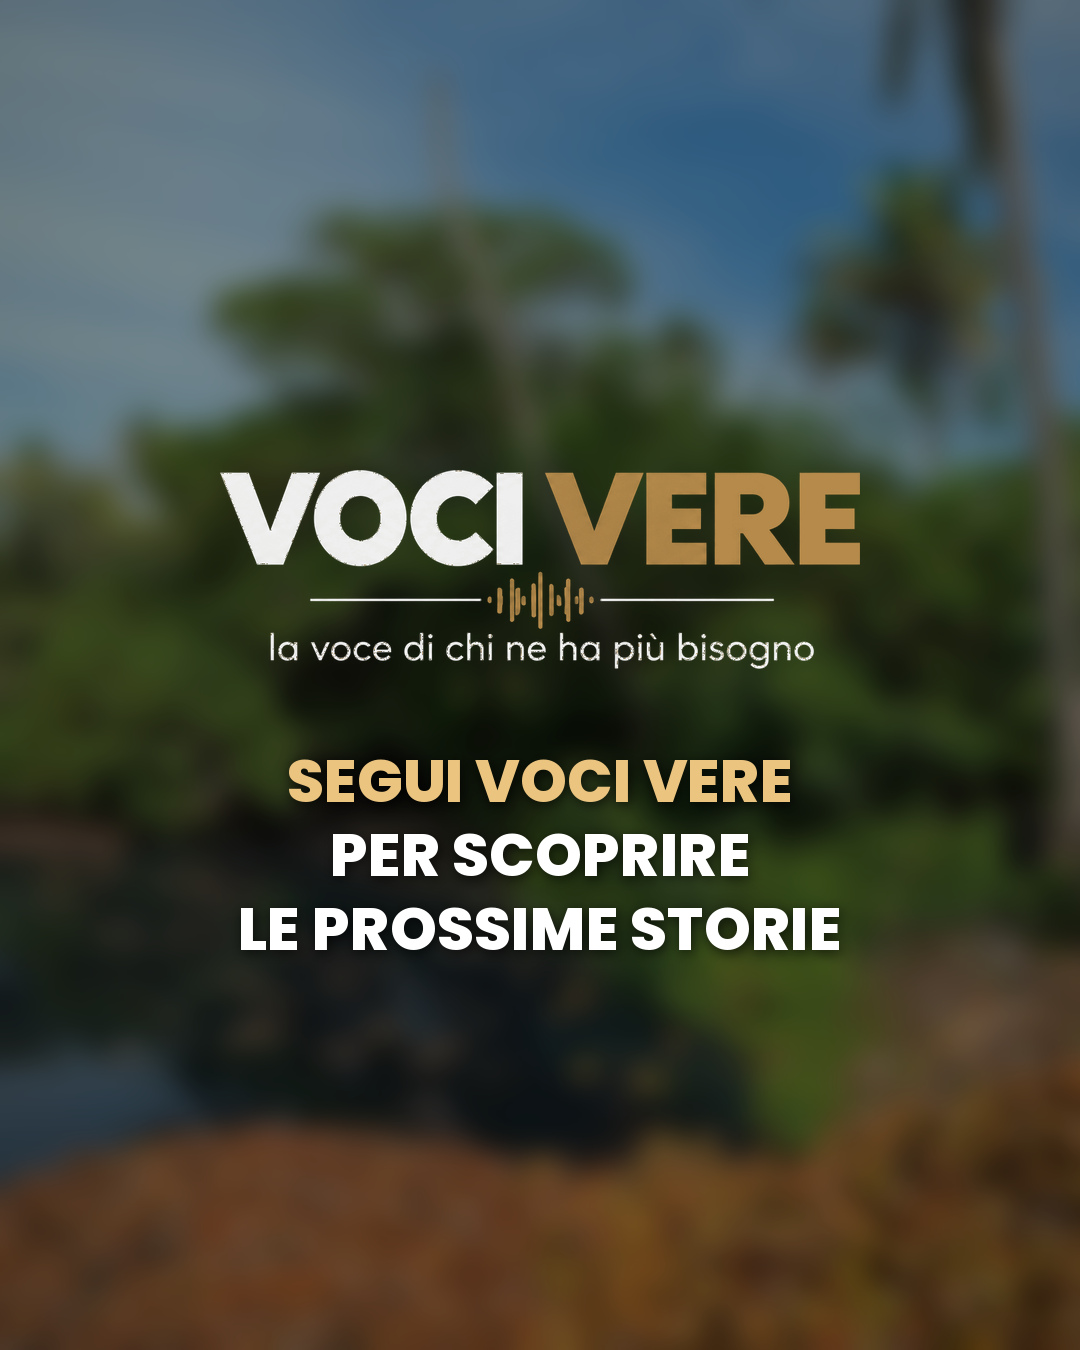
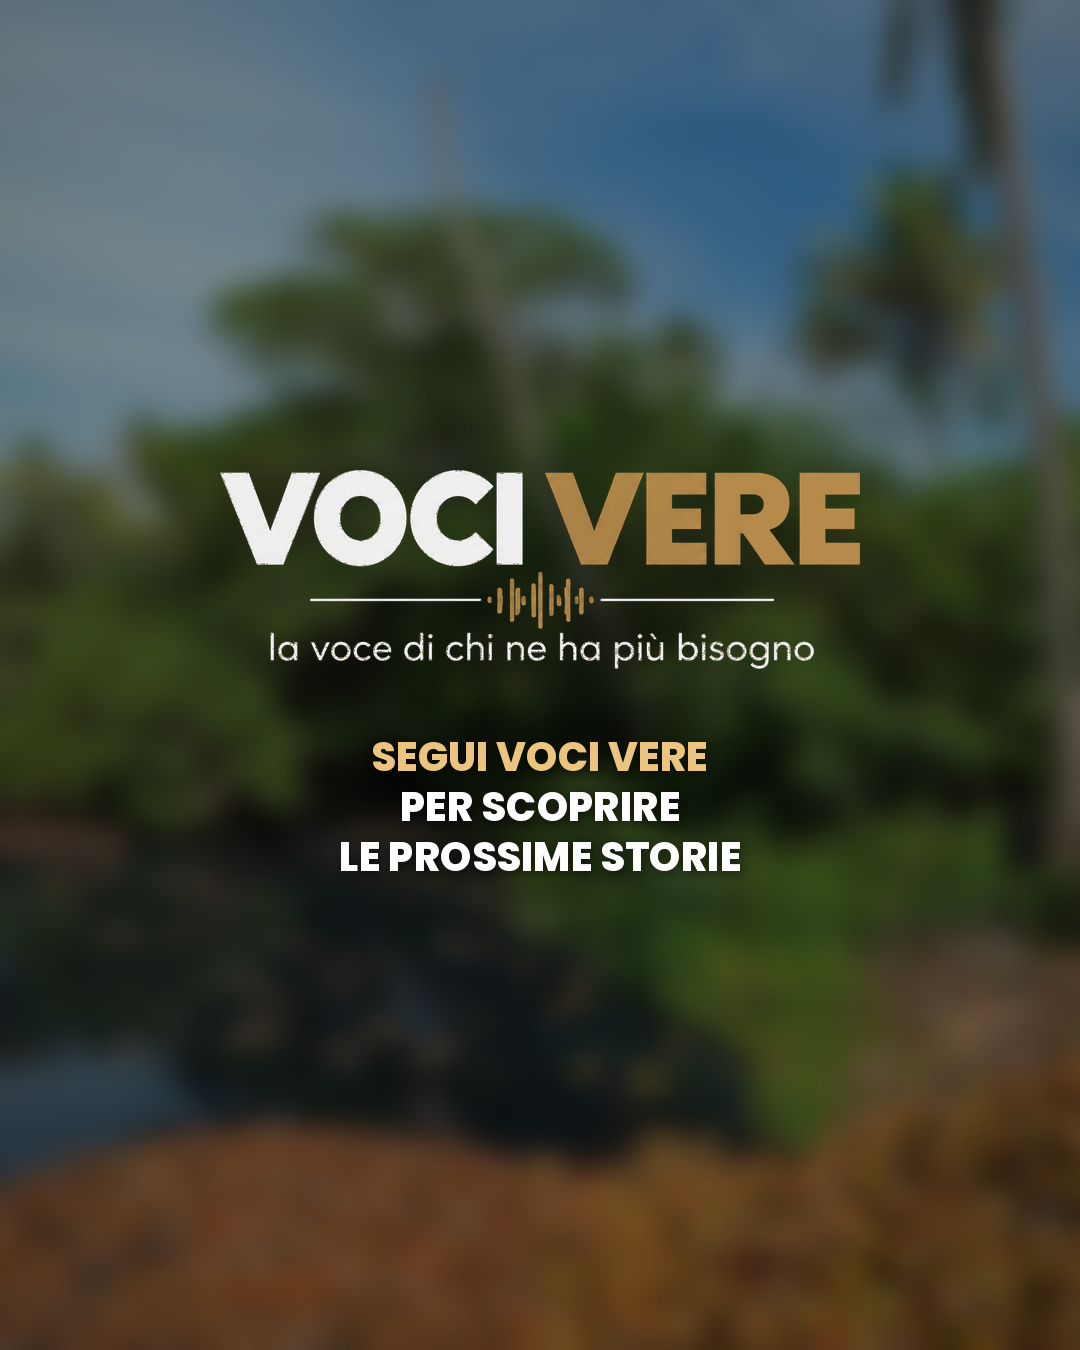
Copy: ultima slide dei caroselli I volti (arthunkal, te, coir) con scritta piccola; hashtag #VociVere al posto di #vitalocale (Manuel 10/11)
Claude-Session: https://claude.ai/code/session_01HtfbgysqTrKE7hBx3kQeSA

Changed region(s): [[0.2139, 0.5289, 0.7944, 0.7156]]

diff --git a/copioni/caroselli/testi_caroselli.md b/copioni/caroselli/testi_caroselli.md
@@ -16,7 +16,7 @@ Il mercato del pesce di Marari, in Kerala, non ha tetto né banchi: le barche ar
 all'asta sulla sabbia. Prima, la sveglia alle 3.
 Tu ti alzeresti alle 3?
 Il video completo è sul canale, link in bio.
-#india #kerala #viaggio #vitalocale #mercato
+#india #kerala #viaggio #VociVere #mercato
 Post YouTube (scheda Community, stesse 8 immagini, senza musica):
 Pesava come una persona 🇮🇳 Il mercato del pesce di Marari, in Kerala: niente tetto, niente banchi, aste sulla sabbia. Tu ti alzeresti alle 3 per esserci? Il video completo: https://youtu.be/LW4zO_0oSgQ
 Musica IG (Insights, 7/11): strumentale della libreria di Instagram, calma (chitarra o percussioni leggere), senza voce, non di
@@ -31,7 +31,7 @@ alla basilica di Arthunkal, recitando un rosario che non si interrompe mai. Noi 
 Cammineresti 13 km di notte, pregando?
 Chi aspetta i pellegrini lungo la strada, e perché qui c'è una statua arrivata da Milano: è nel video sul canale.
 Video completo sul canale YouTube Voci Vere, link in bio.
-#india #kerala #viaggio #vitalocale #pellegrinaggio
+#india #kerala #viaggio #VociVere #pellegrinaggio
 Post YouTube (scheda Community):
 13 km pregando, senza mai fermarsi 🇮🇳 Di notte, sulla costa del Kerala, fino alla basilica di Arthunkal.
 Cammineresti 13 km di notte, pregando? Chi aspetta i pellegrini lungo la strada, e perché qui c'è una statua arrivata da Milano: è nel video. [link del lungo]
@@ -49,7 +49,7 @@ dipendenti.
 Che tè bevi tu?
 I nove giorni del 2015 in cui le raccoglitrici bloccarono Munnar: sono nel video sul canale.
 Video completo sul canale YouTube Voci Vere, link in bio.
-#india #kerala #viaggio #vitalocale #tè
+#india #kerala #viaggio #VociVere #tè
 Post YouTube (scheda Community):
 Affittate per 3.000 rupie l'anno 🇮🇳 Le colline del tè di Munnar, in Kerala: chi le raccoglie, e di chi sono oggi.
 Che tè bevi tu? I nove giorni del 2015 in cui le raccoglitrici bloccarono Munnar sono nel video. [link del lungo]
@@ -74,7 +74,7 @@ Chi pesca, chi vende, chi compra all'asta sulla sabbia. Ogni mattina, sulla cost
 Chi ti è rimasto in mente?
 A che ora si sveglia un pescatore qui, e il pesce da 50 chili venduto sulla sabbia: è nel video sul canale.
 Video completo sul canale YouTube Voci Vere, link in bio.
-#india #kerala #viaggio #vitalocale #mercato
+#india #kerala #viaggio #VociVere #mercato
 Post YouTube (stesse 7 immagini):
 I volti del mercato del pesce di Marari, in Kerala 🇮🇳 Chi pesca, chi vende, chi compra all'asta sulla sabbia.
 A che ora si sveglia un pescatore qui, e il pesce da 50 chili venduto sulla sabbia: è nel video. https://youtu.be/LW4zO_0oSgQ
@@ -87,7 +87,7 @@ I volti del pellegrinaggio di Arthunkal 🇮🇳
 Chi ti è rimasto in mente?
 Cosa ci hanno raccontato, mentre camminavano: è nel video sul canale.
 Video completo sul canale YouTube Voci Vere, link in bio.
-#india #kerala #viaggio #vitalocale #pellegrinaggio
+#india #kerala #viaggio #VociVere #pellegrinaggio
 Post YouTube:
 I volti del pellegrinaggio di Arthunkal, in Kerala 🇮🇳 13 km a piedi, di notte, fino alla basilica.
 Cosa ci hanno raccontato, mentre camminavano: è nel video. [link del lungo]
@@ -100,7 +100,7 @@ Sadish tra i filari, il signore che fa il chai e chi abbiamo incontrato sulla st
 Chi ti è rimasto in mente?
 Quanto tè raccoglie una persona in un giorno, ce lo dice Sadish: è nel video sul canale.
 Video completo sul canale YouTube Voci Vere, link in bio.
-#india #kerala #viaggio #vitalocale #tè
+#india #kerala #viaggio #VociVere #tè
 Post YouTube:
 I volti del tè di Munnar, in Kerala 🇮🇳 Sadish tra i filari, e chi abbiamo incontrato lungo la strada.
 Quanto tè raccoglie una persona in un giorno, ce lo dice Sadish: è nel video. [link del lungo]
@@ -114,7 +114,7 @@ I volti del tempio di Meenakshi 🇮🇳
 La sera, davanti al tempio, a Madurai, nel Tamil Nadu. Chi viene a pregare e chi ci passa ogni giorno.
 Chi ti è rimasto in mente?
 Perché questo tempio, saccheggiato nel 1310, oggi è così: è nel reel sul profilo.
-#india #tamilnadu #viaggio #vitalocale #tempio
+#india #tamilnadu #viaggio #VociVere #tempio
 Post YouTube (stesse immagini):
 I volti del tempio di Meenakshi, a Madurai 🇮🇳 La sera, davanti al tempio.
 Il video: [link allo Short di Meenakshi]
@@ -122,10 +122,10 @@ Il video: [link allo Short di Meenakshi]
 ## Regole dei caroselli (Insights, 7/11, dal carosello del mercato)
 - Didascalia IG (aggiornata 8/11): riga 1 il fatto; contesto; la domanda da sola su una riga (niente "Scrivilo nei commenti");
   una frase con una cosa precisa che si scopre solo nel lungo; "Video completo sul canale YouTube Voci Vere, link in bio."
-  Hashtag in italiano: #india #kerala #viaggio #vitalocale + uno sul tema.
+  Hashtag in italiano: #india #kerala #viaggio #VociVere + uno sul tema.
 - Post YouTube: il link VERO del lungo nel testo (mai "è sul canale"), niente musica.
 - Musica IG: strumentale della libreria di Instagram, calma (chitarra o percussioni leggere), senza voce, non di tendenza,
   volume basso. Per ogni carosello si scrive qui quale brano ha messo Manuel, così Insights confronta.
 Post YouTube: Studio accetta 8 immagini (prova del mercato, 7/11): i caroselli si caricano interi.
-Hashtag (Insights, 8/11): parole del pubblico, tutto in italiano: #india #kerala #viaggio #vitalocale + uno sul tema.
+Hashtag (Insights, 8/11): parole del pubblico, tutto in italiano: #india #kerala #viaggio #VociVere + uno sul tema.
 Link dei lunghi: mercato https://youtu.be/LW4zO_0oSgQ; arthunkal e te da aggiungere quando escono.

diff --git a/copioni/coir_pacchetto.md b/copioni/coir_pacchetto.md
@@ -66,7 +66,7 @@ su IG (scritte, didascalie, hashtag), niente sottotitoli in inglese. Sotto i ree
 frase con una cosa precisa che si scopre solo nel lungo (stessa frase nel commento fissato su YouTube, dove i link non si
 cliccano: il collegamento è il video correlato che mette Manuel). Su IG chiude "Video completo sul canale YouTube Voci Vere,
 link in bio." Teaser: dice cosa c'è nel lungo senza il finale; l'annuncio solo in fondo, mai nel titolo.
-Hashtag con le parole del pubblico: #india #kerala #viaggio #vitalocale + uno sul tema.
+Hashtag con le parole del pubblico: #india #kerala #viaggio #VociVere + uno sul tema.
 
 ### Teaser (VociVere_coir_teaser_1080x1920.mp4)
 Titolo Short / prima riga IG:
@@ -77,7 +77,7 @@ Ogni giorno scende in acqua fino al petto e li cerca sul fondo, a mano. Restano 
 Sapevi da dove viene lo zerbino di cocco?
 Nel video: chi apre questi gusci a mano, quanto le pagano e dove finiscono i tappeti.
 Domenica il video completo sul canale YouTube Voci Vere.
-#india #kerala #viaggio #vitalocale #cocco
+#india #kerala #viaggio #VociVere #cocco
 Descrizione Short YT: Ogni giorno scende in acqua fino al petto e li cerca sul fondo, a mano. Restano lì per mesi, finché la fibra non si stacca. Kerala, India. Sapevi da dove viene lo zerbino di cocco?
 Commento fissato YT: Nel video: chi apre questi gusci a mano, quanto le pagano e dove finiscono i tappeti.
 
@@ -90,7 +90,7 @@ Sopra c'è scritto Made in India. Sotto una tettoia in Kerala, le donne aprono i
 Ce l'hai anche tu all'ingresso di casa?
 Perché qui i giovani non vengono più, e chi tira su i gusci dalla laguna: è nel video sul canale.
 Video completo sul canale YouTube Voci Vere, link in bio.
-#india #kerala #viaggio #vitalocale #cocco
+#india #kerala #viaggio #VociVere #cocco
 Descrizione Short YT: Sopra c'è scritto Made in India. Sotto una tettoia in Kerala, le donne aprono i gusci a mano, sedute per terra. Dalla corda nasce il tappeto che parte per l'Europa. Ce l'hai anche tu all'ingresso di casa?
 Commento fissato YT: Perché qui i giovani non vengono più, e chi tira su i gusci dalla laguna: è nel video sul canale.
 
@@ -103,7 +103,7 @@ Due fili di fibra di cocco, intrecciati passo dopo passo, fino in fondo al capan
 Avresti mai detto che si fa così?
 Da dove arriva la fibra, tirata su a mano da una laguna, e quanto paga questo lavoro: è nel video sul canale.
 Video completo sul canale YouTube Voci Vere, link in bio.
-#india #kerala #viaggio #vitalocale #cocco
+#india #kerala #viaggio #VociVere #cocco
 Descrizione Short YT: Due fili di fibra di cocco, intrecciati passo dopo passo, fino in fondo al capannone. Lei è Mary. La corda che ha in mano diventerà un tappeto. Avresti mai detto che si fa così?
 Commento fissato YT: Da dove arriva la fibra, tirata su a mano da una laguna, e quanto paga questo lavoro: è nel video sul canale.
 
@@ -116,7 +116,7 @@ Premilla ha sessant'anni. Quando questa società del coir ha aperto, in Kerala, 
 Chi conosci che fa lo stesso lavoro da una vita?
 Quanto guadagna in un giorno, e perché dopo di lei potrebbe non esserci nessuno: è nel video sul canale.
 Video completo sul canale YouTube Voci Vere, link in bio.
-#india #kerala #viaggio #vitalocale #cocco
+#india #kerala #viaggio #VociVere #cocco
 Descrizione Short YT: Premilla ha sessant'anni. Quando questa società del coir ha aperto, in Kerala, lei era già qui. Si lavora sedute per terra, sotto il sole, fino alle due. Chi conosci che fa lo stesso lavoro da una vita?
 Commento fissato YT: Quanto guadagna in un giorno, e perché dopo di lei potrebbe non esserci nessuno: è nel video sul canale.
 
@@ -129,7 +129,7 @@ Ci indicano l'unico posto, qui intorno, dove si fa ancora. Il salario, ci dicono
 Nel tuo paese c'è un mestiere che sta sparendo?
 L'unico posto dove si fa ancora, e le donne che ci lavorano da quarant'anni: è nel video sul canale.
 Video completo sul canale YouTube Voci Vere, link in bio.
-#india #kerala #viaggio #vitalocale #cocco
+#india #kerala #viaggio #VociVere #cocco
 Descrizione Short YT: Ci indicano l'unico posto, qui intorno, dove si fa ancora. Il salario, ci dicono, è di 400 rupie al giorno, circa 4 euro. Nel tuo paese c'è un mestiere che sta sparendo?
 Commento fissato YT: L'unico posto dove si fa ancora, e le donne che ci lavorano da quarant'anni: è nel video sul canale.
 

diff --git a/copioni/arthunkal_pacchetto.md b/copioni/arthunkal_pacchetto.md
@@ -70,7 +70,7 @@ su IG (scritte, didascalie, hashtag), niente sottotitoli in inglese. Sotto i ree
 frase con una cosa precisa che si scopre solo nel lungo (stessa frase nel commento fissato su YouTube, dove i link non si
 cliccano: il collegamento è il video correlato che mette Manuel). Su IG chiude "Video completo sul canale YouTube Voci Vere,
 link in bio." Teaser: dice cosa c'è nel lungo senza il finale; l'annuncio solo in fondo, mai nel titolo.
-Hashtag con le parole del pubblico: #india #kerala #viaggio #vitalocale + uno sul tema.
+Hashtag con le parole del pubblico: #india #kerala #viaggio #VociVere + uno sul tema.
 
 ### V1 teaser (VociVere_arthunkal_v1_teaser_1080x1920.mp4)
 Titolo Short / prima riga IG:
@@ -82,7 +82,7 @@ Si parte a mezzanotte da Kalavoor e si cammina lungo la costa del Kerala fino al
 Chi cammina, chi dà da mangiare a chi passa, e scopriremo perché in questa chiesa c'è una statua arrivata da Milano.
 
 Domenica il video completo su YouTube
-#india #kerala #viaggio #vitalocale #pellegrinaggio
+#india #kerala #viaggio #VociVere #pellegrinaggio
 (versione pubblicata da Manuel, 10/11)
 Descrizione Short YT: Si parte a mezzanotte da Kalavoor e si cammina lungo la costa del Kerala fino alla basilica di Arthunkal. Cammineresti 13 km di notte?
 Commento fissato YT: Nel video: chi cammina, chi dà da mangiare a chi passa, e perché in questa chiesa c'è una statua arrivata da Milano.
@@ -95,7 +95,7 @@ Una statua arrivata da Milano nel 1647, sulla costa del Kerala 🇮🇳
 Arthunkal, India. La chiesa la ricostruisce nel 1584 un gesuita italiano: qui lo chiamano ancora Veluthachan, il padre bianco.
 Lo sapevi?
 Dove arrivano a piedi, di notte, centinaia di migliaia di persone: 13 km con i pellegrini fino a questa statua. Video completo (6 min) sul canale YouTube Voci Vere, link in bio.
-#india #kerala #viaggio #vitalocale #pellegrinaggio
+#india #kerala #viaggio #VociVere #pellegrinaggio
 Descrizione Short YT: Arthunkal, India. La chiesa la ricostruisce nel 1584 un gesuita italiano: qui lo chiamano ancora Veluthachan, il padre bianco. Lo sapevi?
 Dove arrivano a piedi, di notte, centinaia di migliaia di persone: 13 km con i pellegrini fino a questa statua. Il video completo (6 min) è nel link sopra il titolo.
 Commento fissato YT: Dove arrivano a piedi, di notte, centinaia di migliaia di persone: 13 km con i pellegrini fino a questa statua. Il video completo (6 min) è nel link sopra il titolo.
@@ -110,7 +110,7 @@ Sulla strada per Arthunkal, in Kerala, le chiedo cosa significa per lei questo c
 Tu hai mai fatto un cammino così?
 Chi aspetta i pellegrini lungo la strada, con acqua e cibo gratis per tutti: è nel video sul canale.
 Video completo sul canale YouTube Voci Vere, link in bio.
-#india #kerala #viaggio #vitalocale #pellegrinaggio
+#india #kerala #viaggio #VociVere #pellegrinaggio
 Descrizione Short YT: Sulla strada per Arthunkal, in Kerala, le chiedo cosa significa per lei questo cammino. Non è la prima volta che lo fa. Tu hai mai fatto un cammino così?
 Commento fissato YT: Chi aspetta i pellegrini lungo la strada, con acqua e cibo gratis per tutti: è nel video sul canale.
 
@@ -123,7 +123,7 @@ Si chiama Akhanda Japamala, il rosario ininterrotto: dal santuario di Kalavoor a
 Ce la faresti a non fermarti mai?
 Com'è nato, quando nel 2002 erano poche centinaia, e chi cammina oggi: è nel video sul canale.
 Video completo sul canale YouTube Voci Vere, link in bio.
-#india #kerala #viaggio #vitalocale #pellegrinaggio
+#india #kerala #viaggio #VociVere #pellegrinaggio
 Descrizione Short YT: Si chiama Akhanda Japamala, il rosario ininterrotto: dal santuario di Kalavoor alla basilica di Arthunkal, lungo la costa del Kerala. Ce la faresti a non fermarti mai?
 Commento fissato YT: Com'è nato, quando nel 2002 erano poche centinaia, e chi cammina oggi: è nel video sul canale.
 

diff --git a/copioni/te_pacchetto.md b/copioni/te_pacchetto.md
@@ -64,7 +64,7 @@ su IG (scritte, didascalie, hashtag), niente sottotitoli in inglese. Sotto i ree
 frase con una cosa precisa che si scopre solo nel lungo (stessa frase nel commento fissato su YouTube, dove i link non si
 cliccano: il collegamento è il video correlato che mette Manuel). Su IG chiude "Video completo sul canale YouTube Voci Vere,
 link in bio." Teaser: dice cosa c'è nel lungo senza il finale; l'annuncio solo in fondo, mai nel titolo.
-Hashtag con le parole del pubblico: #india #kerala #viaggio #vitalocale + uno sul tema.
+Hashtag con le parole del pubblico: #india #kerala #viaggio #VociVere + uno sul tema.
 
 ### V1 teaser (VociVere_te_v1_teaser_1080x1920.mp4)
 Titolo Short / prima riga IG:
@@ -75,7 +75,7 @@ Munnar, Kerala. Oggi sono coperte di tè fino all'orizzonte.
 Secondo te, di chi sono oggi?
 Nel video: chi raccoglie il tè, quanto ne raccoglie in un giorno, e di chi sono diventate queste colline.
 Domenica il video completo sul canale YouTube Voci Vere.
-#india #kerala #viaggio #vitalocale #tè
+#india #kerala #viaggio #VociVere #tè
 Descrizione Short YT: Munnar, Kerala. Oggi sono coperte di tè fino all'orizzonte. Secondo te, di chi sono oggi?
 Commento fissato YT: Nel video: chi raccoglie il tè, quanto ne raccoglie in un giorno, e di chi sono diventate queste colline.
 
@@ -88,7 +88,7 @@ Munnar, Kerala. Sadish ci mostra come si raccoglie: due, tre foglie, quelle buon
 Lo sapevi che si raccoglie così?
 Di chi sono oggi queste colline, affittate nel 1877 per 3.000 rupie: è nel video sul canale.
 Video completo sul canale YouTube Voci Vere, link in bio.
-#india #kerala #viaggio #vitalocale #tè
+#india #kerala #viaggio #VociVere #tè
 Descrizione Short YT: Munnar, Kerala. Sadish ci mostra come si raccoglie: due, tre foglie, quelle buone. Sulla stessa pianta si torna ogni dieci, quindici giorni. Lo sapevi che si raccoglie così?
 Commento fissato YT: Di chi sono oggi queste colline, affittate nel 1877 per 3.000 rupie: è nel video sul canale.
 
@@ -101,7 +101,7 @@ Munnar, Kerala. Sadish ce lo dice: si lavora dalle 8 alle 12, poi dall'una e mez
 Tu quanti chili raccoglieresti?
 I nove giorni del 2015 in cui le raccoglitrici bloccarono Munnar: sono nel video sul canale.
 Video completo sul canale YouTube Voci Vere, link in bio.
-#india #kerala #viaggio #vitalocale #tè
+#india #kerala #viaggio #VociVere #tè
 Descrizione Short YT: Munnar, Kerala. Sadish ce lo dice: si lavora dalle 8 alle 12, poi dall'una e mezza fino alle 5 circa. E raccolgono tutti, donne e uomini. Tu quanti chili raccoglieresti?
 Commento fissato YT: I nove giorni del 2015 in cui le raccoglitrici bloccarono Munnar: sono nel video sul canale.
 
@@ -114,7 +114,7 @@ Munnar, Kerala. Il chai master tira il tè senza fermarsi. Gli ho chiesto di par
 L'hai mai assaggiato?
 Da dove arriva il tè di questo bicchiere, e chi lo raccoglie sulle colline: è nel video sul canale.
 Video completo sul canale YouTube Voci Vere, link in bio.
-#india #kerala #viaggio #vitalocale #chai
+#india #kerala #viaggio #VociVere #chai
 Descrizione Short YT: Munnar, Kerala. Il chai master tira il tè senza fermarsi. Gli ho chiesto di parlare: si è rifiutato. L'hai mai assaggiato?
 Commento fissato YT: Da dove arriva il tè di questo bicchiere, e chi lo raccoglie sulle colline: è nel video sul canale.
 
@@ -123,7 +123,7 @@ Didascalia IG / titolo Short:
 POV: non hai la lavatrice (e non ti serve) 🇮🇳
 Kerala, India. Rubinetto, secchio, due mani. E un sorriso alla fine.
 Tu sapresti farlo così?
-#india #kerala #viaggio #vitalocale #bucato
+#india #kerala #viaggio #VociVere #bucato
 Descrizione Short YT: Rubinetto, secchio e due mani: il bucato in Kerala. Tu sapresti farlo così?
 (Il luogo preciso, se Manuel lo dice, al posto di "Kerala".)
 

diff --git a/copioni/mercato_pacchetto.md b/copioni/mercato_pacchetto.md
@@ -20,7 +20,7 @@ Cristiani, induisti, musulmani: "Un posto in pace" 🇮🇳
 Marari, costa del Kerala, India. Un pescatore ci racconta la vita qui: tante religioni, che vanno d'accordo.
 "Amici", dice. E quando c'è la festa, per tutti c'è il cibo gratis.
 Il video completo è sul canale.
-#india #kerala #viaggio #vitalocale #mercato
+#india #kerala #viaggio #VociVere #mercato
 Descrizione Short YT:
 Sulla spiaggia di Marari, in Kerala, un pescatore ci spiega com'è vivere dove convivono tre religioni. Dove vivi tu è così?
 
@@ -33,7 +33,7 @@ Mercato di Mararikulam, Kerala, India. Niente tetto, niente banchi: le barche ar
 sulla sabbia. Quella mattina ne arriva uno da 50-55 chili, ci dicono lì. "Veramente come una persona."
 Hai mai visto un pesce così grande?
 Tutta la storia su YouTube, link in bio.
-#india #kerala #viaggio #vitalocale #mercato
+#india #kerala #viaggio #VociVere #mercato
 Descrizione Short YT:
 Ogni mattina, a Marari, il pesce si vende all'asta direttamente sulla spiaggia. Quella mattina ne arriva uno da 50 chili. Quanto pensi che valga?
 
@@ -47,7 +47,7 @@ per il mercato. Ogni giorno.
 Tu ti alzeresti alle 3?
 Il pesce da 50 chili venduto all'asta sulla sabbia, alle 8 del mattino: è nel video sul canale.
 Video completo sul canale YouTube Voci Vere, link in bio.
-#india #kerala #viaggio #vitalocale #mercato
+#india #kerala #viaggio #VociVere #mercato
 Commento fissato (uguale su YouTube e IG, Manuel 9/11): Il pesce da 50 chili venduto all'asta sulla sabbia, alle 8 del mattino: è nel video completo sul canale YouTube Voci Vere.
 Descrizione Short YT:
 Un pescatore di Marari, in Kerala, ci racconta la sua giornata: comincia alle tre di notte, da trent'anni. Tu ce la faresti?
@@ -65,7 +65,7 @@ Il mercato del pesce di Marari, in Kerala, non ha tetto né banchi: le barche ar
 all'asta sulla sabbia. Prima, la sveglia alle 3.
 Tu ti alzeresti alle 3? Scrivilo nei commenti.
 Il video completo è uscito sul canale, link in bio.
-#india #kerala #viaggio #vitalocale #mercato
+#india #kerala #viaggio #VociVere #mercato
 Post YouTube (scheda Community, stesse 8 immagini):
 Pesava come una persona 🇮🇳 Il mercato del pesce di Marari, in Kerala: niente tetto, niente banchi, aste sulla
 sabbia. Tu ti alzeresti alle 3 per esserci? Il video completo è sul canale.

diff --git a/copioni/coir_testi.md b/copioni/coir_testi.md
@@ -447,7 +447,7 @@ Dalla fibra nasce la corda, dalla corda i tappeti che arrivano in Europa.
 Ce l'hai anche tu all'ingresso di casa?
 Quanto va a loro per ogni tappeto, e perché i giovani non vengono più: è nel video sul canale.
 Video completo sul canale YouTube Voci Vere, link in bio.
-#india #kerala #viaggio #vitalocale #cocco
+#india #kerala #viaggio #VociVere #cocco
 Post YouTube (stesse immagini, 06 come .jpg):
 Sopra c'è scritto Made in India 🇮🇳 Le donne del coir del Kerala, che fanno i nostri tappeti a mano. Ce l'hai anche tu all'ingresso di casa? Quanto va a loro per ogni tappeto, e perché i giovani non vengono più: è nel video. [link del lungo]
 
@@ -468,7 +468,7 @@ Le donne e l'uomo che, sulla costa del Kerala, fanno a mano la fibra dei nostri 
 Chi ti è rimasto in mente?
 Chi sono, da quanti anni lo fanno e cosa ci hanno raccontato: è nel video sul canale.
 Video completo sul canale YouTube Voci Vere, link in bio.
-#india #kerala #viaggio #vitalocale #cocco
+#india #kerala #viaggio #VociVere #cocco
 Post YouTube: I volti del coir, in Kerala 🇮🇳 Le donne e l'uomo che fanno a mano la fibra dei nostri tappeti. Chi sono, da quanti anni lo fanno e cosa ci hanno raccontato: è nel video. [link del lungo]
 
 ---------------------------------------------------------------------------------------------------------------

diff --git a/copioni/STATO_COPY.md b/copioni/STATO_COPY.md
@@ -33,7 +33,7 @@ Da leggere all'avvio di ogni nuova chat Copy, dopo CLAUDE.md. Regole complete in
 - Titolo degli Short: fatto concreto con un numero o un oggetto, tutto in italiano.
 - Testi dei verticali e dei caroselli: fatto, contesto, domanda su una riga, una frase con cosa si scopre solo nel lungo
   (anche come commento fissato su YT), "Video completo sul canale YouTube Voci Vere, link in bio." Hashtag in italiano:
-  #india #kerala #viaggio #vitalocale + uno sul tema. Tutto in italiano anche su IG, niente sottotitoli inglesi sui reel.
+  #india #kerala #viaggio #VociVere + uno sul tema. Tutto in italiano anche su IG, niente sottotitoli inglesi sui reel.
 - Verticali: la PRIMA frase del VO è la più forte; "Kerala, India" non si ripete (né detto né a schermo) se non serve.
 - Storie: escono SEMPRE dopo il lungo, mai "domenica" o conto alla rovescia.
 - Carosello "I volti": ritratti in posa, filtro caldo naturale, ogni persona una volta, niente microfoni, copertina con un

diff --git a/regole/copy.md b/regole/copy.md
@@ -137,3 +137,6 @@ Nota da Insights, 8/11 sera (mercato a 7 giorni, YouTube + IG; `analisi/mercato.
   (cosa si scopre solo nel lungo), senza esca.
 - Correzione: la regola "scritta mai sul viso" resta, ma il reel B non la dimostra: su YouTube lo stesso primo
   fotogramma (volto coperto) tiene il 60,8%. Lo skip su IG dipendeva dal pubblico indiano.
+
+Hashtag (Manuel, 10/11): da ora in ogni didascalia e descrizione c'è #VociVere, al posto di #vitalocale (tolto: "veramente brutto").
+Schema: #india #kerala #viaggio #VociVere + uno sul tema.

diff --git a/copioni/autostop_testi.md b/copioni/autostop_testi.md
@@ -12,7 +12,7 @@ Tu ci saliresti? Uno sconosciuto in India mi riporta a casa in motorino 🇮🇳
 Fino a pochi minuti prima non ci conoscevamo.
 
 Segui Voci Vere per le prossime storie dall'India.
-#india #kerala #viaggio #vitalocale #autostop
+#india #kerala #viaggio #VociVere #autostop
 (versione pubblicata da Manuel, 10/11)
 
 Descrizione Short YT:
